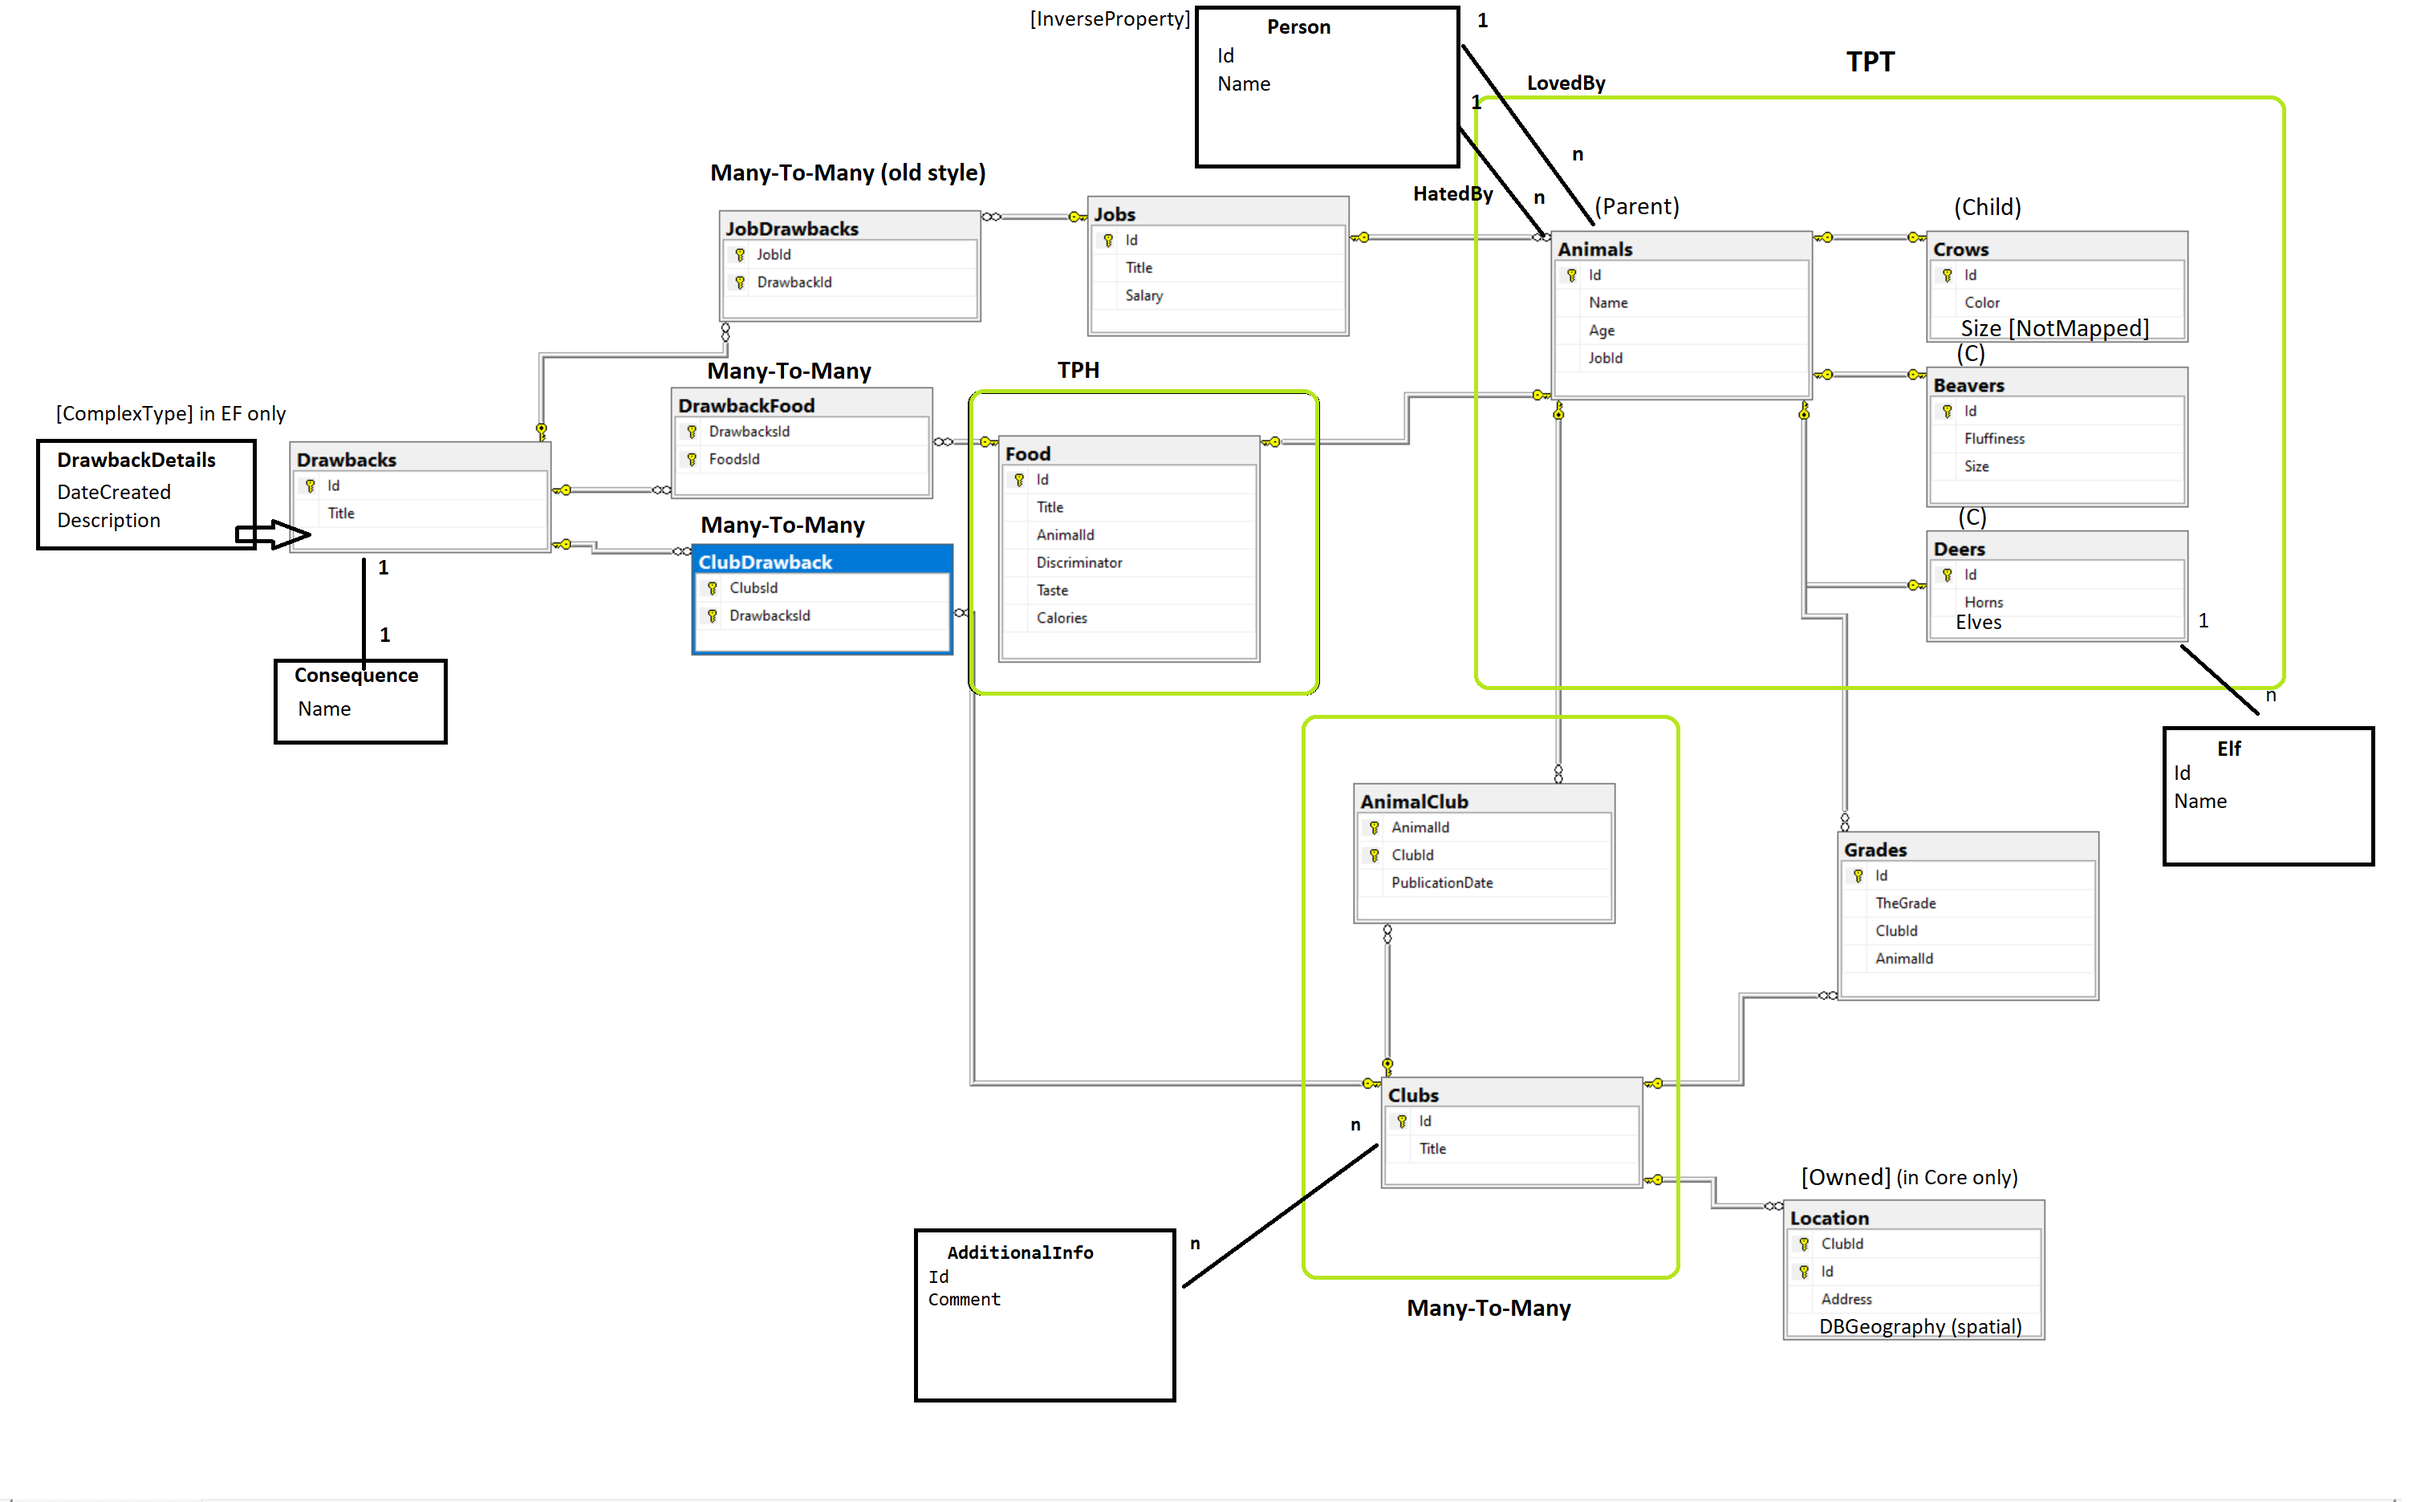
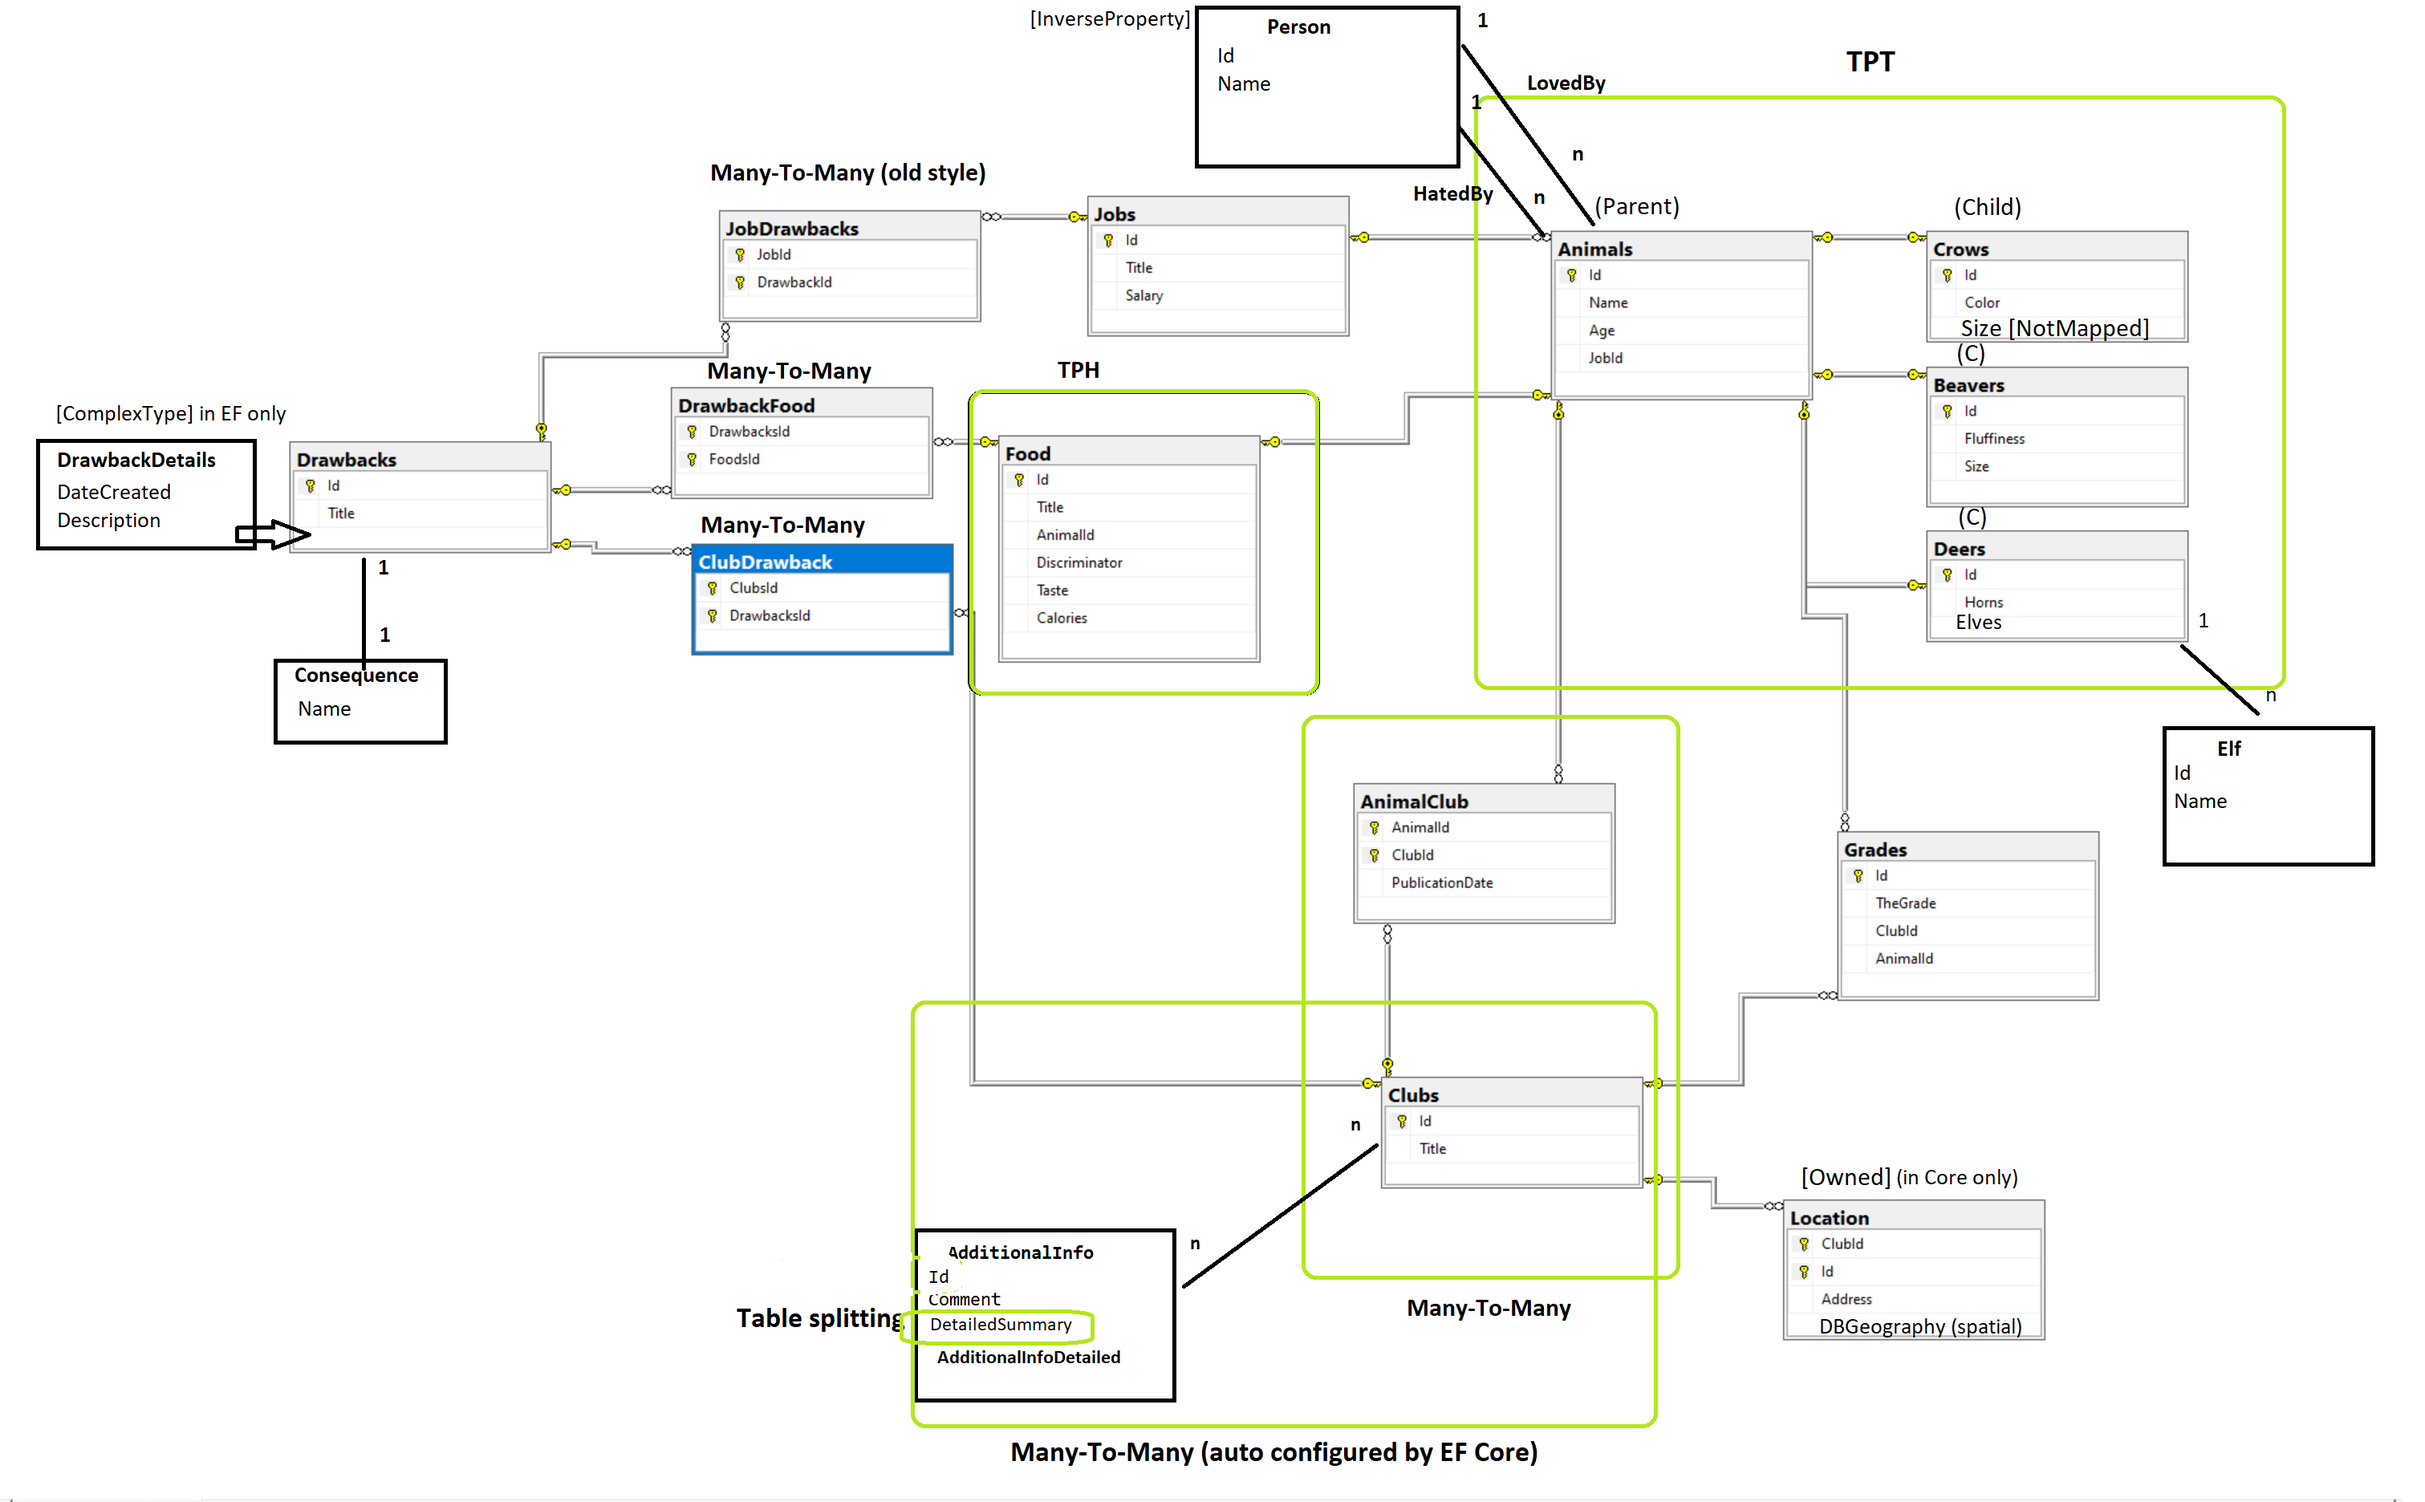
Add table splitting.

diff --git a/CoreLib_Common/AnimalContext.cs b/CoreLib_Common/AnimalContext.cs
@@ -4,26 +4,27 @@
     {
         #region Tables
 
-        public DbSet<Person>         Persons         { get; set; } = null!;
-        public DbSet<Animal>         Animals         { get; set; } = null!;
-        public DbSet<Beaver>         Beavers         { get; set; } = null!;
-        public DbSet<Crow>           Crows           { get; set; } = null!;
-        public DbSet<Deer>           Deers           { get; set; } = null!;
-        public DbSet<Club>           Clubs           { get; set; } = null!;
-        public DbSet<Grade>          Grades          { get; set; } = null!;
-        public DbSet<Job>            Jobs            { get; set; } = null!;
-        public DbSet<Drawback>       Drawbacks       { get; set; } = null!;
-        public DbSet<JobDrawback>    JobDrawbacks    { get; set; } = null!;
-        public DbSet<Food>           Food            { get; set; } = null!;
-        public DbSet<NormalFood>     NormalFood      { get; set; } = null!;
-        public DbSet<VeganFood>      VeganFood       { get; set; } = null!;
-        public DbSet<Elf>            Elves           { get; set; } = null!;
+        public DbSet<Person> Persons { get; set; } = null!;
+        public DbSet<Animal> Animals { get; set; } = null!;
+        public DbSet<Beaver> Beavers { get; set; } = null!;
+        public DbSet<Crow> Crows { get; set; } = null!;
+        public DbSet<Deer> Deers { get; set; } = null!;
+        public DbSet<Club> Clubs { get; set; } = null!;
+        public DbSet<Grade> Grades { get; set; } = null!;
+        public DbSet<Job> Jobs { get; set; } = null!;
+        public DbSet<Drawback> Drawbacks { get; set; } = null!;
+        public DbSet<JobDrawback> JobDrawbacks { get; set; } = null!;
+        public DbSet<Food> Food { get; set; } = null!;
+        public DbSet<NormalFood> NormalFood { get; set; } = null!;
+        public DbSet<VeganFood> VeganFood { get; set; } = null!;
+        public DbSet<Elf> Elves { get; set; } = null!;
         public DbSet<AdditionalInfo> AdditionalInfos { get; set; } = null!;
+        public DbSet<AdditionalInfoDetailed> AdditionalInfoDetailed { get; set; } = null!;
 
         public DbSet<MapToQuery> MapToQuery { get; set; } = null!;
 
         // Property bags
-        public DbSet<Dictionary<string, object>> Products   => Set<Dictionary<string, object>>("Product");
+        public DbSet<Dictionary<string, object>> Products => Set<Dictionary<string, object>>("Product");
         public DbSet<Dictionary<string, object>> Categories => Set<Dictionary<string, object>>("Category");
 
         public IQueryable<AnimalLocation> GetAnimalLocation(
@@ -49,13 +50,13 @@
             if (!optionsBuilder.IsConfigured)
             {
                 // TODO: fix connection property
-                optionsBuilder.UseSqlServer(
-                    "Server=unit-1019\\sqlexpress;Database=BeaversLife;Trusted_Connection=True;" +
-                    "MultipleActiveResultSets=True");
-                //optionsBuilder.UseSqlServer("Server=localhost;Database=BeaversLife;Trusted_Connection=True;" +
-                //                            "MultipleActiveResultSets=True"
-                //    //, b=> b.UseQuerySplittingBehavior(QuerySplittingBehavior.SplitQuery)
-                //);
+                //optionsBuilder.UseSqlServer(
+                //    "Server=unit-1019\\sqlexpress;Database=BeaversLife;Trusted_Connection=True;" +
+                //    "MultipleActiveResultSets=True");
+                optionsBuilder.UseSqlServer("Server=localhost;Database=BeaversLife;Trusted_Connection=True;" +
+                                            "MultipleActiveResultSets=True"
+                //, b=> b.UseQuerySplittingBehavior(QuerySplittingBehavior.SplitQuery)
+                );
                 optionsBuilder.LogTo(Console.WriteLine, LogLevel.Information);
                 optionsBuilder.AddInterceptors(new MySaveChangesInterceptor());
 
@@ -94,18 +95,18 @@
                         )
                 ;
 
-            // Many-to-many
-            modelBuilder.Entity<AdditionalInfo>()
-                        .HasMany(a => a.Clubs)
-                        .WithMany(c => c.AdditionalInfos)
-                        .UsingEntity<AdditionalInfoClub>(
-                            c => c.HasOne(additionalInfoClub => additionalInfoClub.Club)
-                                  .WithMany().HasForeignKey(additionalInfoClub => additionalInfoClub.ClubId),
-                            a => a.HasOne(additionalInfoClub => additionalInfoClub.AdditionalInfo)
-                                  .WithMany().HasForeignKey(animalClub => animalClub.AdditionalInfoId),
-                            j => { j.HasKey(t => new { t.AdditionalInfoId, t.ClubId }); }
-                        )
-                ;
+            //// Many-to-many
+            //modelBuilder.Entity<AdditionalInfo>()
+            //            .HasMany(a => a.Clubs)
+            //            .WithMany(c => c.AdditionalInfos)
+            //            .UsingEntity<AdditionalInfoClub>(
+            //                c => c.HasOne(additionalInfoClub => additionalInfoClub.Club)
+            //                      .WithMany().HasForeignKey(additionalInfoClub => additionalInfoClub.ClubId),
+            //                a => a.HasOne(additionalInfoClub => additionalInfoClub.AdditionalInfo)
+            //                      .WithMany().HasForeignKey(animalClub => animalClub.AdditionalInfoId),
+            //                j => { j.HasKey(t => new { t.AdditionalInfoId, t.ClubId }); }
+            //            )
+            //    ;
 
             modelBuilder.Entity<Grade>(entity =>
             {
@@ -119,7 +120,8 @@
             {
                 entity.HasKey(j => new
                 {
-                    j.JobId, j.DrawbackId
+                    j.JobId,
+                    j.DrawbackId
                 });
 
                 entity.HasOne(jd => jd.Job)
@@ -172,6 +174,18 @@
             // Table-valued functions
             modelBuilder.Entity(typeof(AnimalLocation)).HasNoKey();
             modelBuilder.HasDbFunction(() => GetAnimalLocation(default));
+
+            // Table splitting
+            modelBuilder.Entity<AdditionalInfoDetailed>(additionalInfoSmall =>
+            {
+                additionalInfoSmall.ToTable("AdditionalInfos");
+            });
+            modelBuilder.Entity<AdditionalInfo>(additionalInfo =>
+            {
+                additionalInfo.ToTable("AdditionalInfos");
+
+                additionalInfo.HasOne(o => o.AdditionalInfoDetailed).WithOne().HasForeignKey<AdditionalInfoDetailed>(o => o.Id);
+            });
         }
     }
 }

diff --git a/EF_BeaversLife/Program.cs b/EF_BeaversLife/Program.cs
@@ -10,7 +10,7 @@
 
             Console.ForegroundColor = ConsoleColor.Green;
             ExecuteQueries();
-            await ExecuteQueriesAsync();
+            //await ExecuteQueriesAsync();
 
             Console.ForegroundColor = ConsoleColor.White;
 
@@ -925,17 +925,29 @@
             var additionalInfo1 = new AdditionalInfo()
             {
                 Clubs   = new List<Club>() {club1, club2, club3},
-                Comment = "Best club ever"
+                Comment = "Best club ever",
+                AdditionalInfoDetailed = new AdditionalInfoDetailed 
+                { 
+                    DetailedSummary = "summary #1 from additional info detailed"
+                }
             };
             var additionalInfo2 = new AdditionalInfo()
             {
                 Clubs   = new List<Club>() {club1, club2},
-                Comment = "Evolution club"
+                Comment = "Evolution club",
+                AdditionalInfoDetailed = new AdditionalInfoDetailed
+                {
+                    DetailedSummary = "summary #2 from additional info detailed"
+                }
             };
             var additionalInfo3 = new AdditionalInfo()
             {
                 Clubs   = new List<Club>() {club1},
-                Comment = "Original club"
+                Comment = "Original club",
+                AdditionalInfoDetailed = new AdditionalInfoDetailed
+                {
+                    DetailedSummary = "summary #3 from additional info detailed"
+                }
             };
 
             context.AdditionalInfos.Add(additionalInfo1);

diff --git a/CoreLib_Common/Model/AdditionalInfo.cs b/CoreLib_Common/Model/AdditionalInfo.cs
@@ -3,12 +3,14 @@
     public class AdditionalInfo
     {
         [Key]
-        [DatabaseGenerated(DatabaseGeneratedOption.Identity)]
+        //[DatabaseGenerated(DatabaseGeneratedOption.Identity)]
         public int Id { get; set; }
 
         public string? Comment { get; set; }
 
         public virtual ICollection<Club>? Clubs { get; set; }
+
+        public AdditionalInfoDetailed AdditionalInfoDetailed { get; set; }
 
         public override string ToString()
         {
@@ -16,12 +18,25 @@
         }
     }
 
-    public class AdditionalInfoClub
+    public class AdditionalInfoDetailed
     {
-        public int AdditionalInfoId { get; set; }
-        public int ClubId           { get; set; }
+        [Key]
+        public int Id { get; set; }
 
-        public virtual AdditionalInfo AdditionalInfo { get; set; } = null!;
-        public virtual Club           Club           { get; set; } = null!;
+        public string DetailedSummary { get; set; }
+
+        public override string ToString()
+        {
+            return $@"AdditionalInfoDetailed: Id = {Id} DetailedSummary = {DetailedSummary}";
+        }
     }
+
+    //public class AdditionalInfoClub
+    //{
+    //    public int AdditionalInfoId { get; set; }
+    //    public int ClubId           { get; set; }
+
+    //    public virtual AdditionalInfo AdditionalInfo { get; set; } = null!;
+    //    public virtual Club           Club           { get; set; } = null!;
+    //}
 }

diff --git a/EF_BeaversLife/Queries/UseSplittedTable.cs b/EF_BeaversLife/Queries/UseSplittedTable.cs
@@ -1,11 +1,11 @@
-namespace EF_BeaversLife.Queries;
+namespace MSSQL_Core_App.Queries;
 
-public class DeleteMe2
+internal class UseSplittedTable
 {
     /// <summary>
-    /// 
+    /// Include is needed.
     /// </summary>
-    public void Test()
+    public void UseSplittedTable1()
     {
         using var context = new AnimalContext();
 
